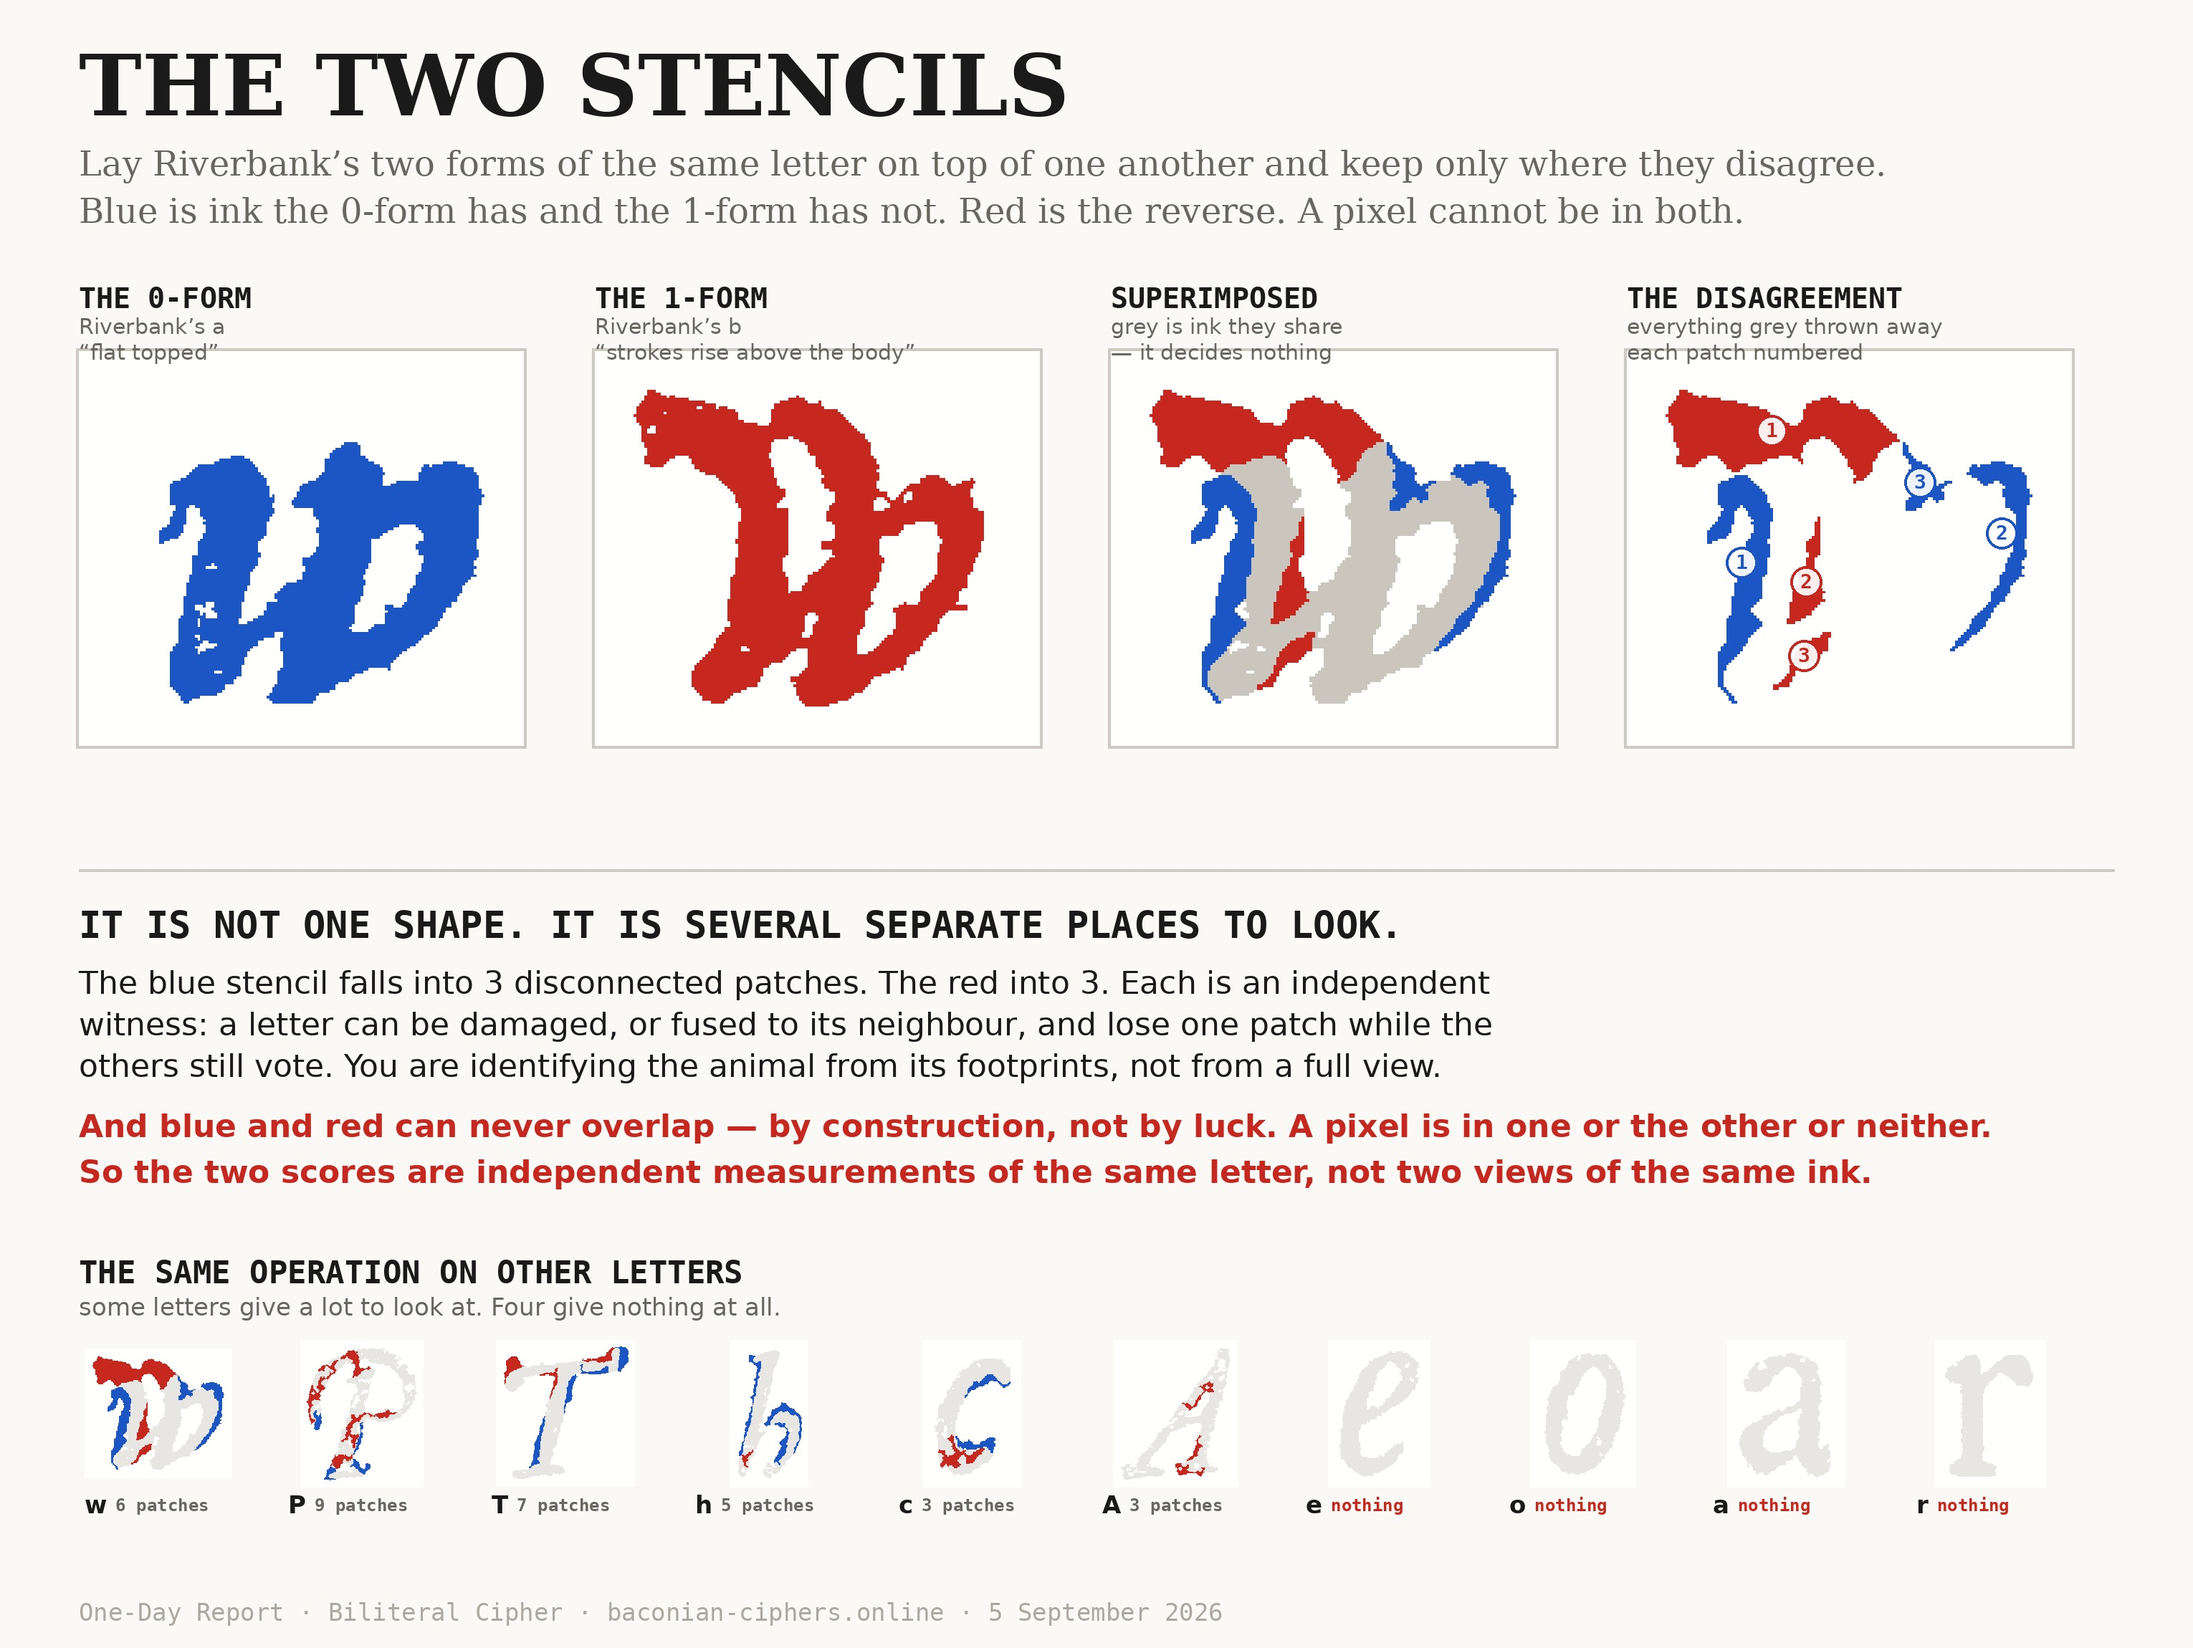
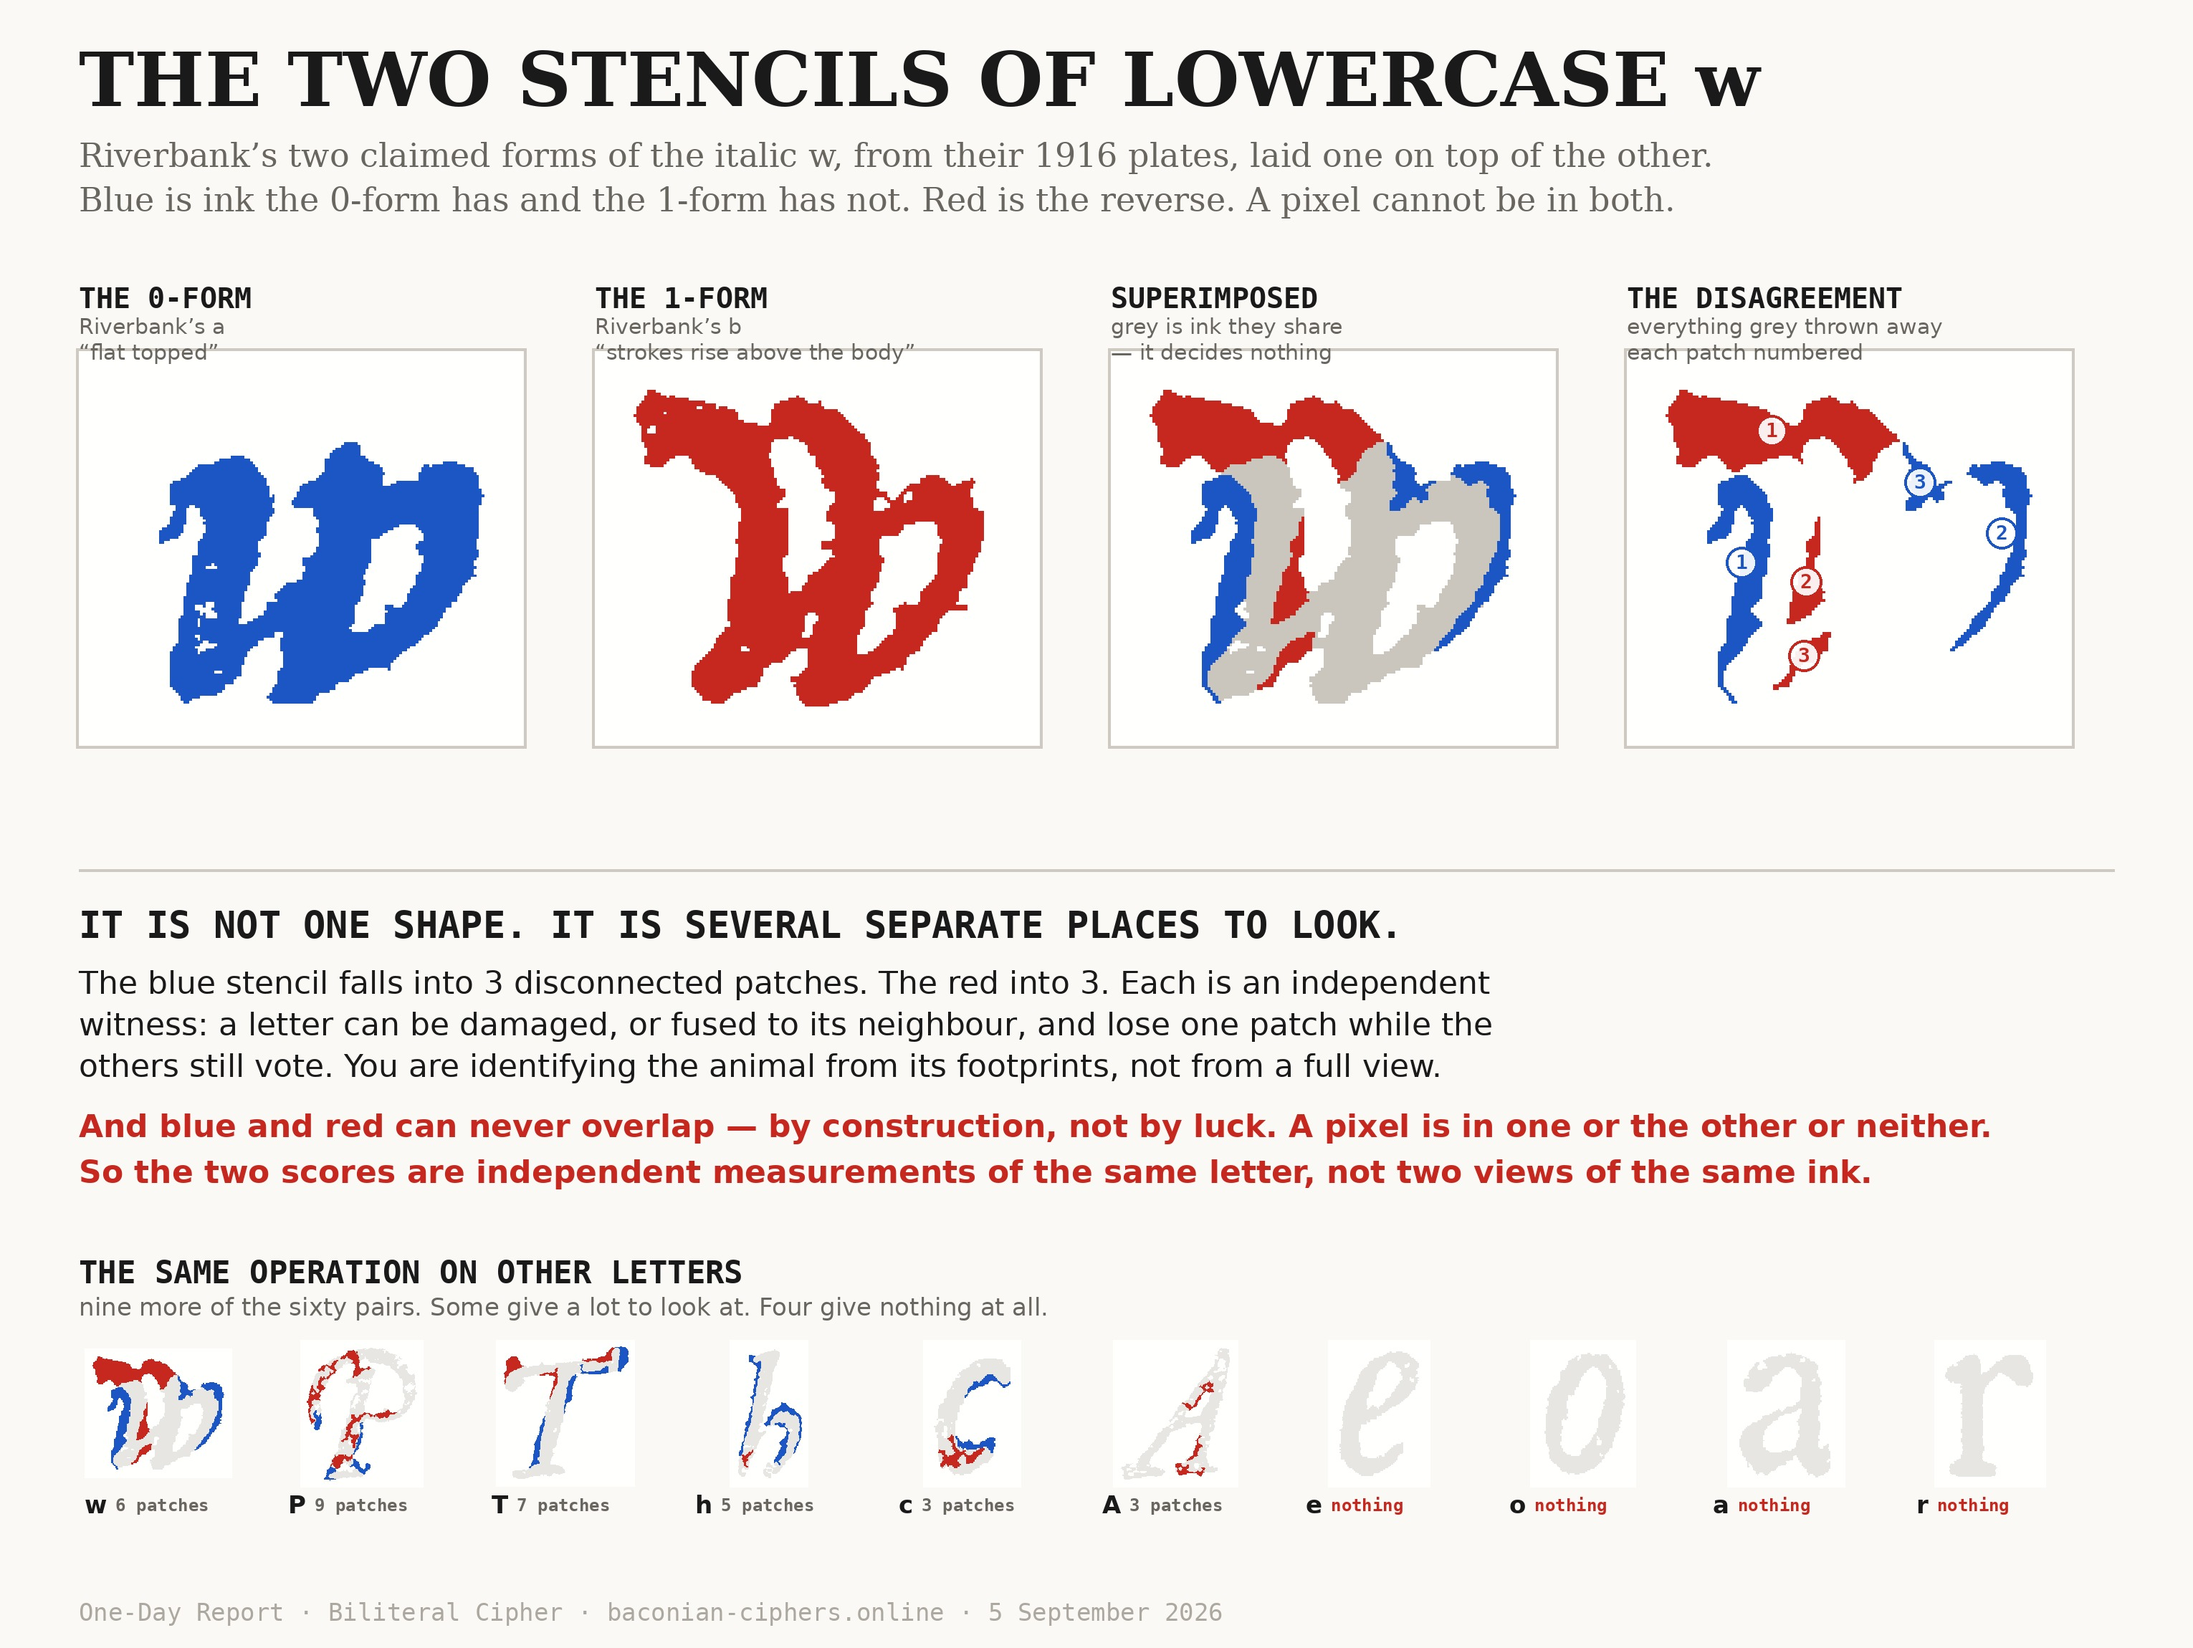
Add the stencil catalogue; name the letter in the two-stencils figure
The w figure did not say it was lowercase w. Fixed.

New second figure in Biliteral 004: all sixty pairs from the Keys in one sheet,
each showing the 0-form, the 1-form and what survives the XOR, with overlap,
patch count, and where available the page separation. Sorted most-different
first. w is the only letter whose stencils separate what Riverbank marked;
e, o, a and r leave nothing to measure at all.

Claude-Session: https://claude.ai/code/session_01UMdVzY9HHCZzKkGsSc2ejG

Changed region(s): [[0.031, 0.0309, 0.8382, 0.1543], [0.031, 0.7717, 0.4657, 0.8026]]

diff --git a/biliteral/2026-09-05/index.html b/biliteral/2026-09-05/index.html
@@ -194,6 +194,13 @@ footer{border-top:1px solid var(--rule);border-bottom:1px solid var(--rule);back
     <figcaption>Riverbank's two forms of the letter <span class="gl">w</span>, laid on top of one another. Grey is ink they share and it decides nothing. Blue is ink only the a-form has; red only the b-form. Throw the grey away and six separate places to look are left.</figcaption>
   </figure>
 
+
+  <figure>
+    <div class="bigfig"><a href="the-stencil-catalogue.jpg"><img src="the-stencil-catalogue.jpg" alt="All sixty pairs of Riverbank exemplars, XOR'd"></a></div>
+    <div class="figbar">drag sideways on a phone · tap or click for full size</div>
+    <figcaption>The same operation on all sixty pairs in the manual, sorted most-different first. Lowercase <span class="gl">w</span> is the only one whose stencils, applied to the page, separate what Riverbank marked. Four letters &mdash; <span class="mono">e</span>, <span class="mono">o</span>, <span class="mono">a</span>, <span class="mono">r</span> &mdash; leave nothing to measure at all.</figcaption>
+  </figure>
+
   <h2>Questions</h2>
 
   <details><summary>What is the biliteral cipher?</summary><div class="body">

diff --git a/biliteral/index.html b/biliteral/index.html
@@ -194,6 +194,13 @@ footer{border-top:1px solid var(--rule);border-bottom:1px solid var(--rule);back
     <figcaption>Riverbank's two forms of the letter <span class="gl">w</span>, laid on top of one another. Grey is ink they share and it decides nothing. Blue is ink only the a-form has; red only the b-form. Throw the grey away and six separate places to look are left.</figcaption>
   </figure>
 
+
+  <figure>
+    <div class="bigfig"><a href="the-stencil-catalogue.jpg"><img src="the-stencil-catalogue.jpg" alt="All sixty pairs of Riverbank exemplars, XOR'd"></a></div>
+    <div class="figbar">drag sideways on a phone · tap or click for full size</div>
+    <figcaption>The same operation on all sixty pairs in the manual, sorted most-different first. Lowercase <span class="gl">w</span> is the only one whose stencils, applied to the page, separate what Riverbank marked. Four letters &mdash; <span class="mono">e</span>, <span class="mono">o</span>, <span class="mono">a</span>, <span class="mono">r</span> &mdash; leave nothing to measure at all.</figcaption>
+  </figure>
+
   <h2>Questions</h2>
 
   <details><summary>What is the biliteral cipher?</summary><div class="body">
